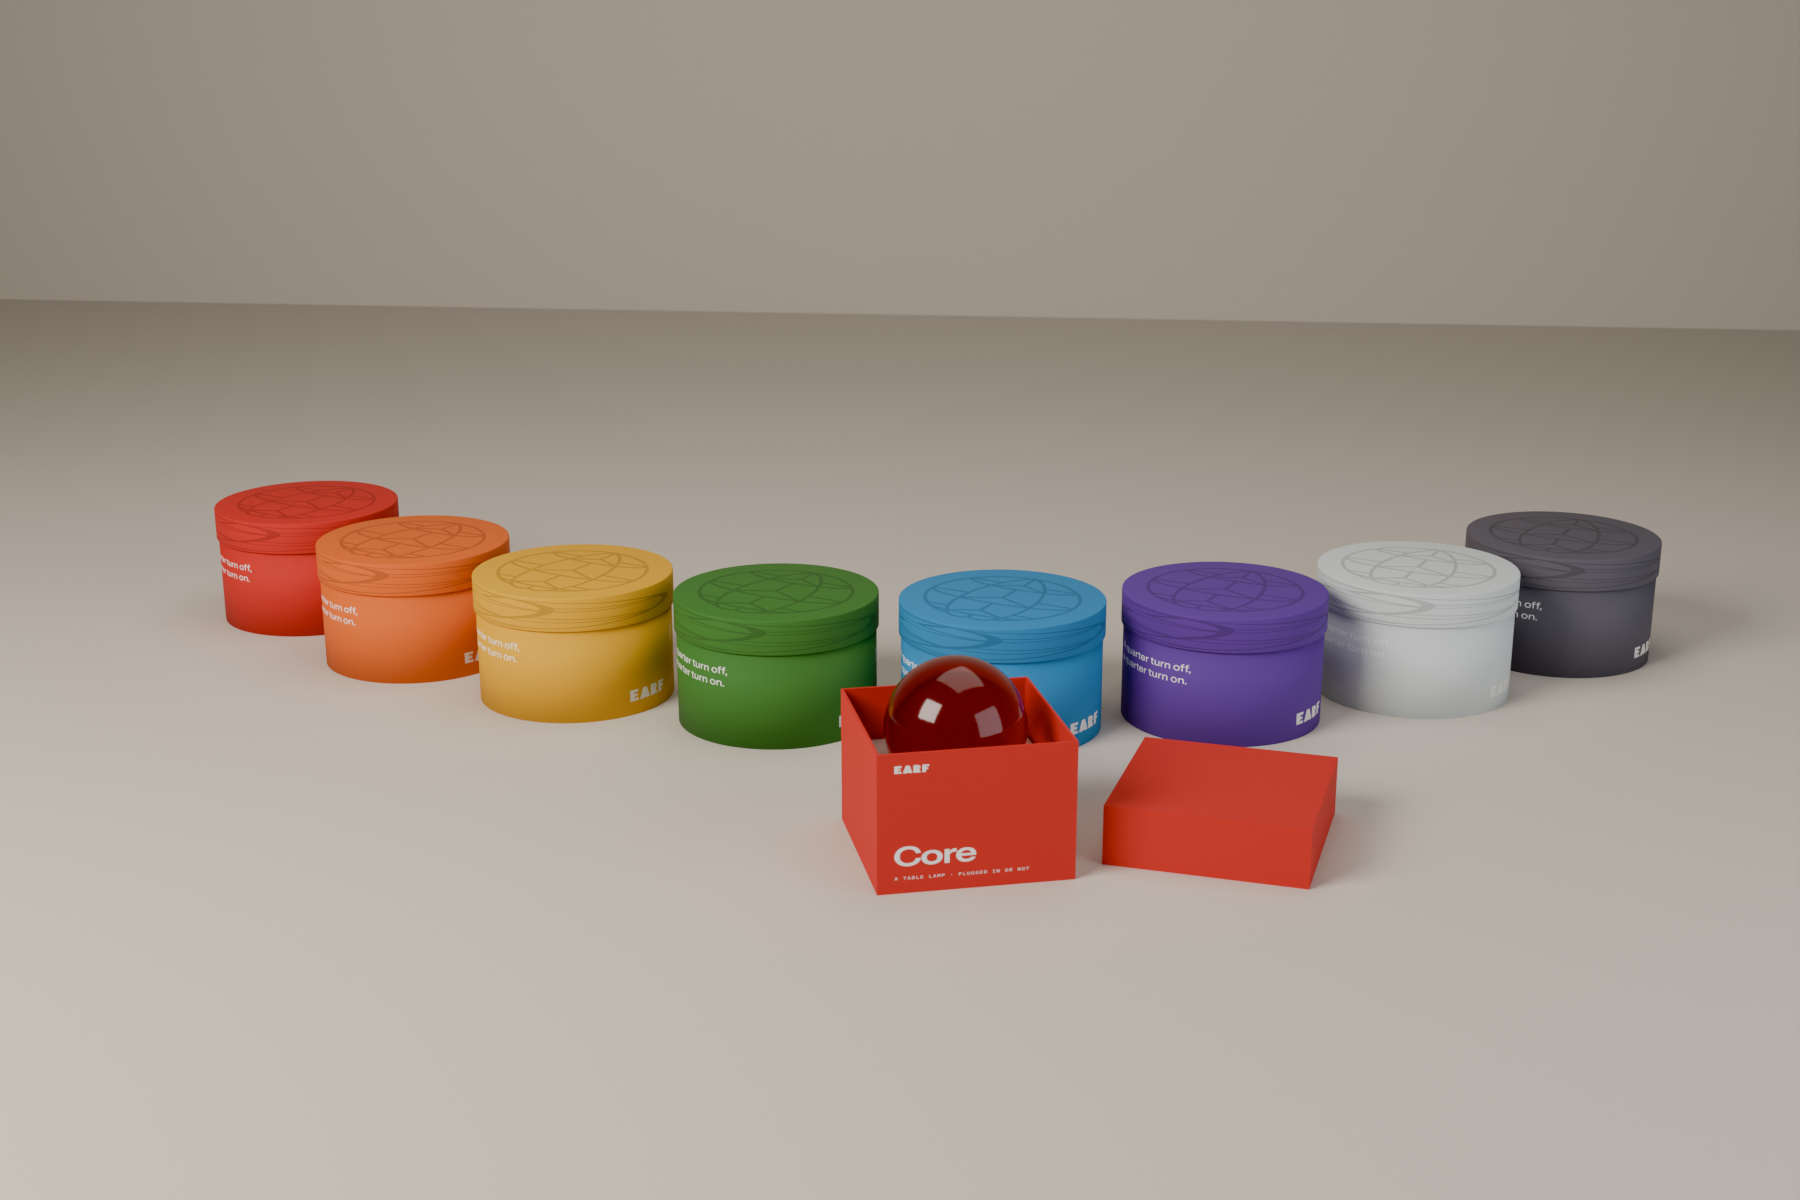
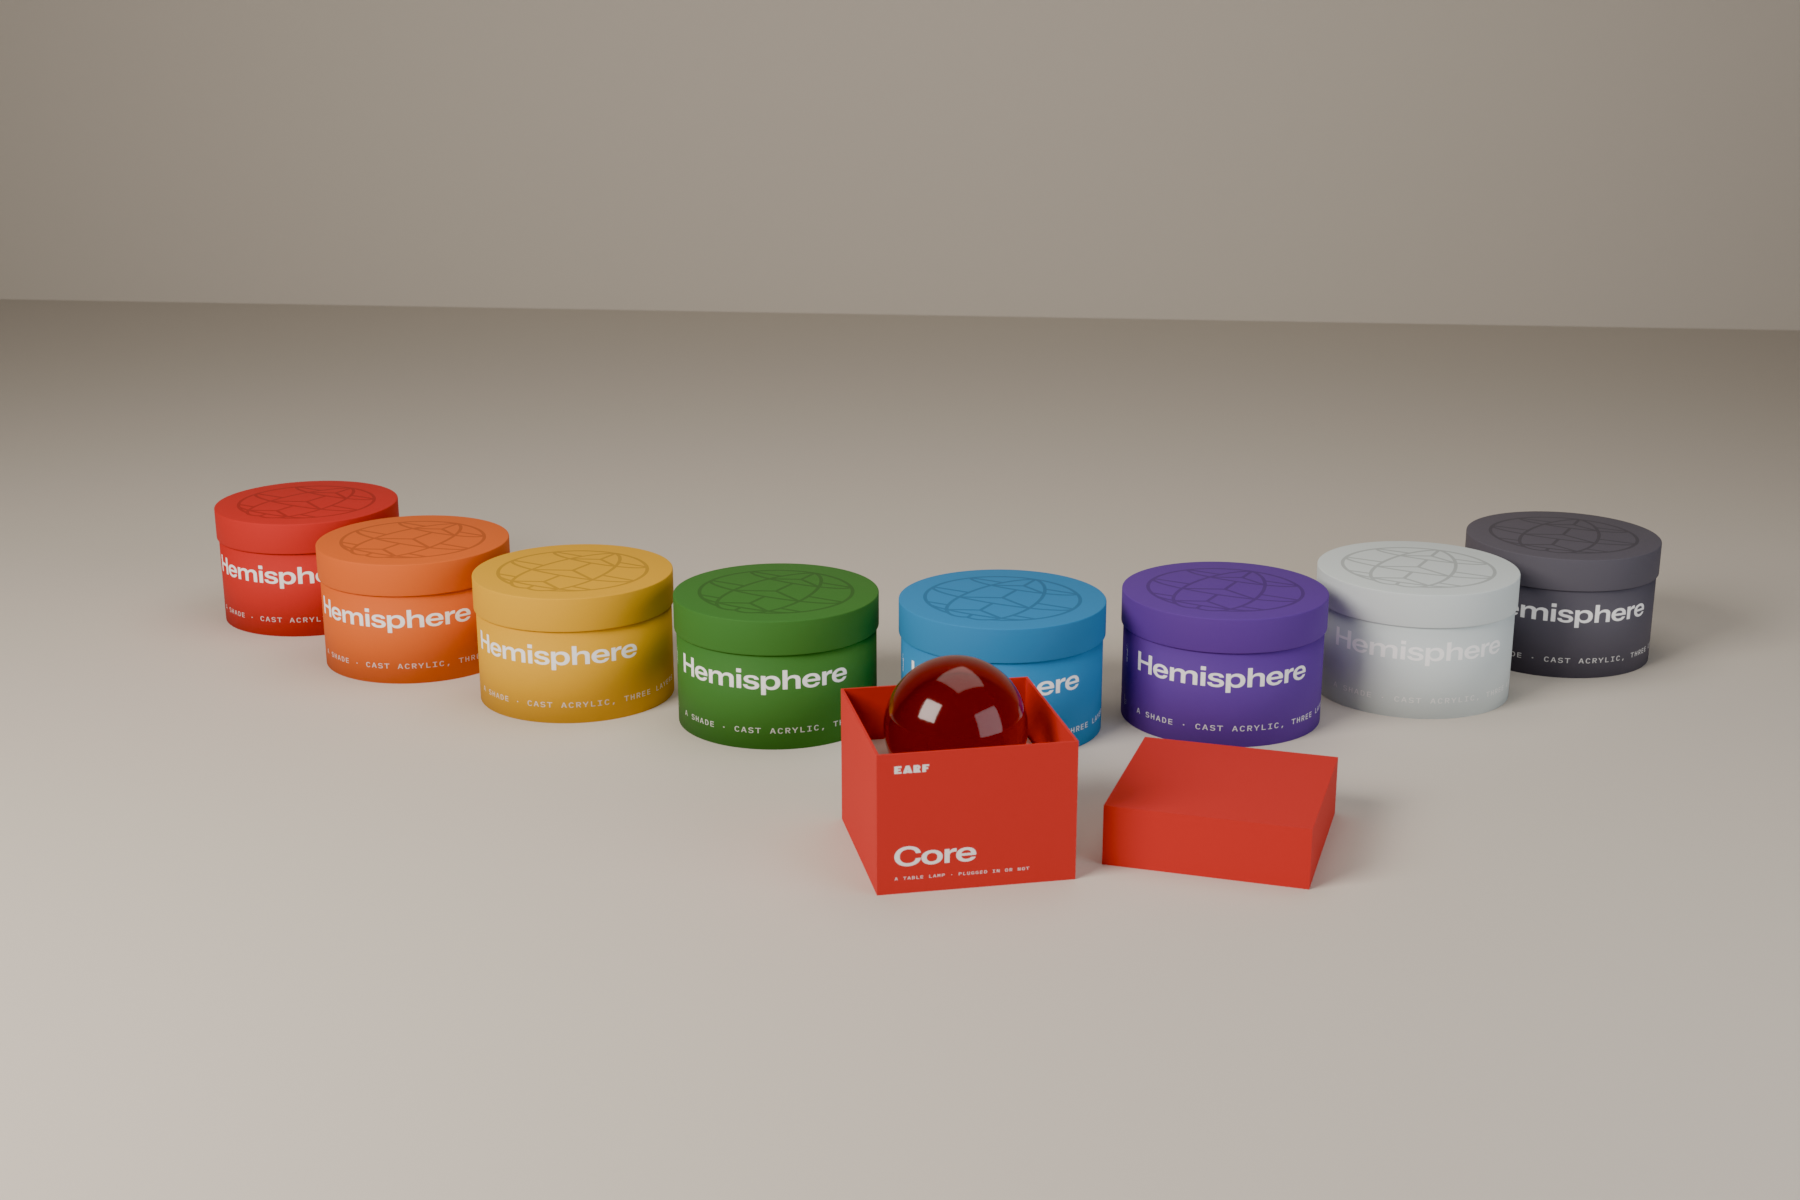
Brand lane r47: the plaza, library and lamp-box renders, the book published
Mother EARF at 4 m in a plaza and the Tint Library path-traced (ideas_render.py);
Hemisphere's drums re-rendered with the name facing the camera and the lid's sides
plain; the book's press chapter, layout fixes, and its pictures gathered. The Brand
Book is a private Artifact: https://claude.ai/artifact/WGpswpvvETozjgRAxBuUK3

Claude-Session: https://claude.ai/code/session_01BAaPTm6ZnW6Wr5zqpr5BWJ

diff --git a/spinoffs/barkhorn/brandbook/book/index.html b/spinoffs/barkhorn/brandbook/book/index.html
@@ -83,6 +83,9 @@ body::before { content: ""; position: fixed; inset: 0 0 auto; height: env(safe-a
 .three { display: grid; grid-template-columns: repeat(3, minmax(0, 1fr)); gap: clamp(14px, 2vw, 24px) }
 .four { display: grid; grid-template-columns: repeat(4, minmax(0, 1fr)); gap: clamp(12px, 1.6vw, 20px) }
 .full img { width: 100% }
+.three figure img { aspect-ratio: 3 / 2; object-fit: cover; width: 100% }
+.stratum.reserve h3 { font-size: clamp(22px, 2.4vw, 28px) }
+.top .mark img { height: 30px }
 @media (max-width: 860px) { .cols, .three { grid-template-columns: minmax(0, 1fr) } .four { grid-template-columns: repeat(2, minmax(0, 1fr)) } }
 @media (max-width: 620px) { .two { grid-template-columns: minmax(0, 1fr) } }
 .big-quote { font-size: clamp(30px, 4.6vw, 60px); line-height: 1.02; letter-spacing: -.035em; font-weight: 600; max-width: 18ch }
